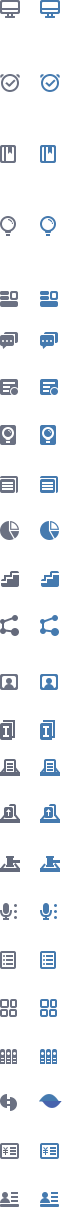
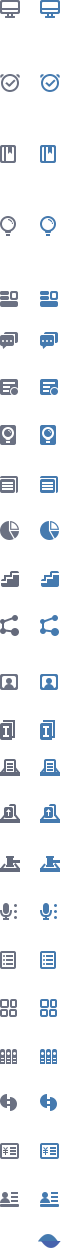
update

diff --git a/galaxy-sop-server/src/main/webapp/css/axure.css b/galaxy-sop-server/src/main/webapp/css/axure.css
@@ -1844,7 +1844,7 @@ font-family: "宋体";
 .nav158{background-position: 0 -854px;}
 .nav186{background-position: 0 -1141px;}
 .nav192{background-position: 0 -1092px;}
-.xingmou{background-position: 0 -1092px;}
+.xingmou{background-position: 0 -1234px;}
 .lft li:hover .nav160,.lft li.on .nav160{background-position: -40px 0;}
 .lft li:hover .nav168,.lft li.on .nav168{background-position: -40px -72px;}
 .lft li:hover .nav171,.lft li.on .nav171{background-position: -40px -144px;}
@@ -1870,7 +1870,8 @@ font-family: "宋体";
 .lft li:hover .nav157,.lft li.on .nav157{background-position: -40px -805px;}
 .lft li:hover .nav158,.lft li.on .nav158{background-position: -40px -854px;}
 .lft li:hover .nav186,.lft li.on .nav186{background-position: -40px -1141px;}
-.lft li:hover .xingmou,.lft li.on .xingmou,.lft li:hover .nav192,.lft li.on .nav192{background-position: -40px -1092px;}
+.lft li:hover .nav192,.lft li.on .nav192{background-position: -40px -1092px;}
+.lft li:hover .xingmou,.lft li.on .xingmou{background-position: -40px -1230px;}
 .lft .toggle_li ul{background-color: #1f222d !important;}
 .lft .toggle_li li a{color:#eee !important;}
 .lft .toggle_li li ul a{padding-left:30px;}
